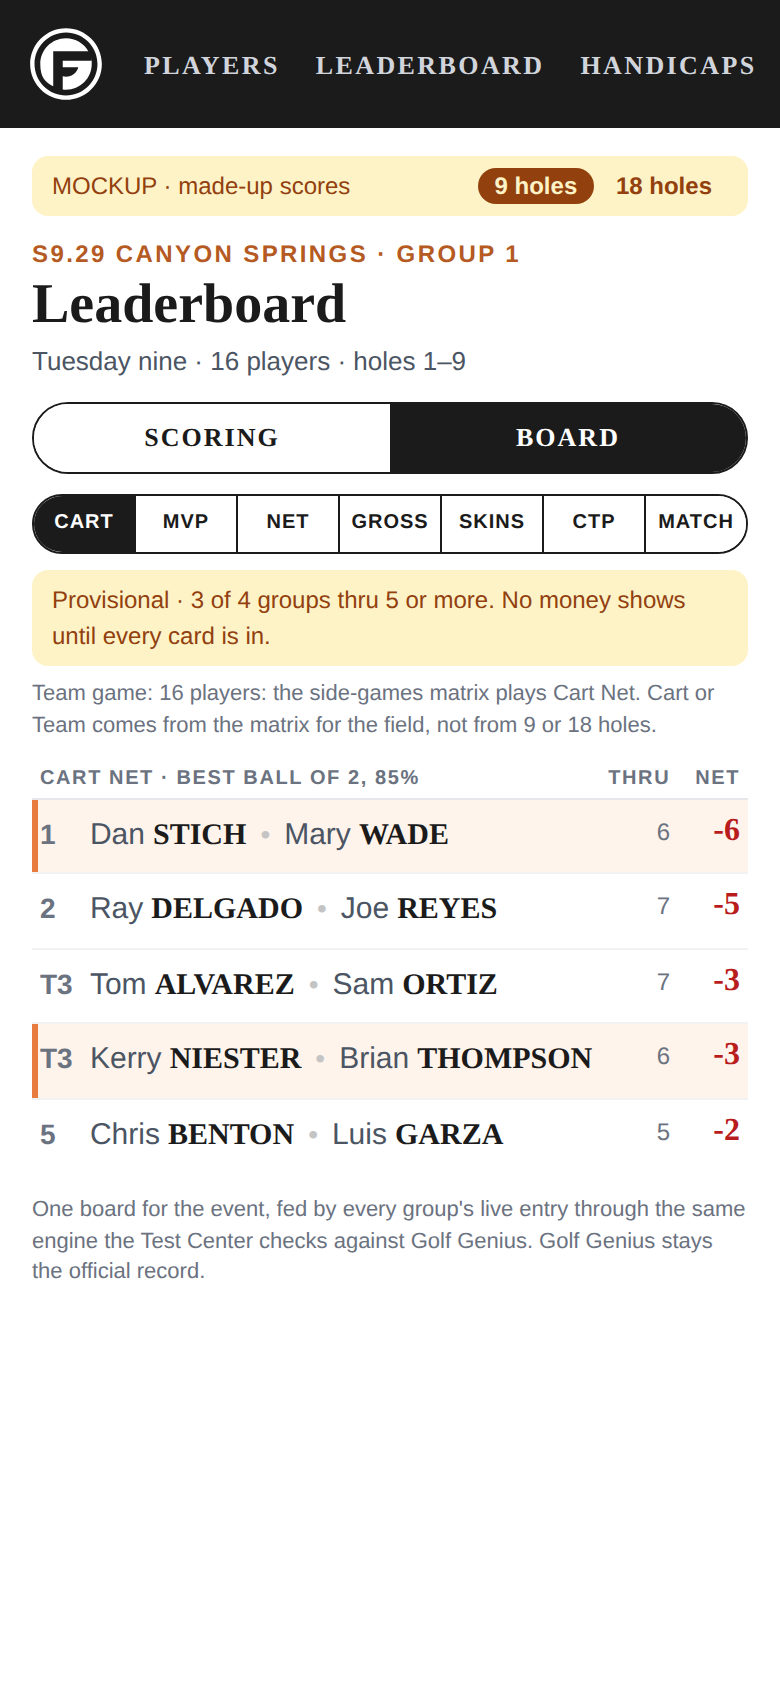
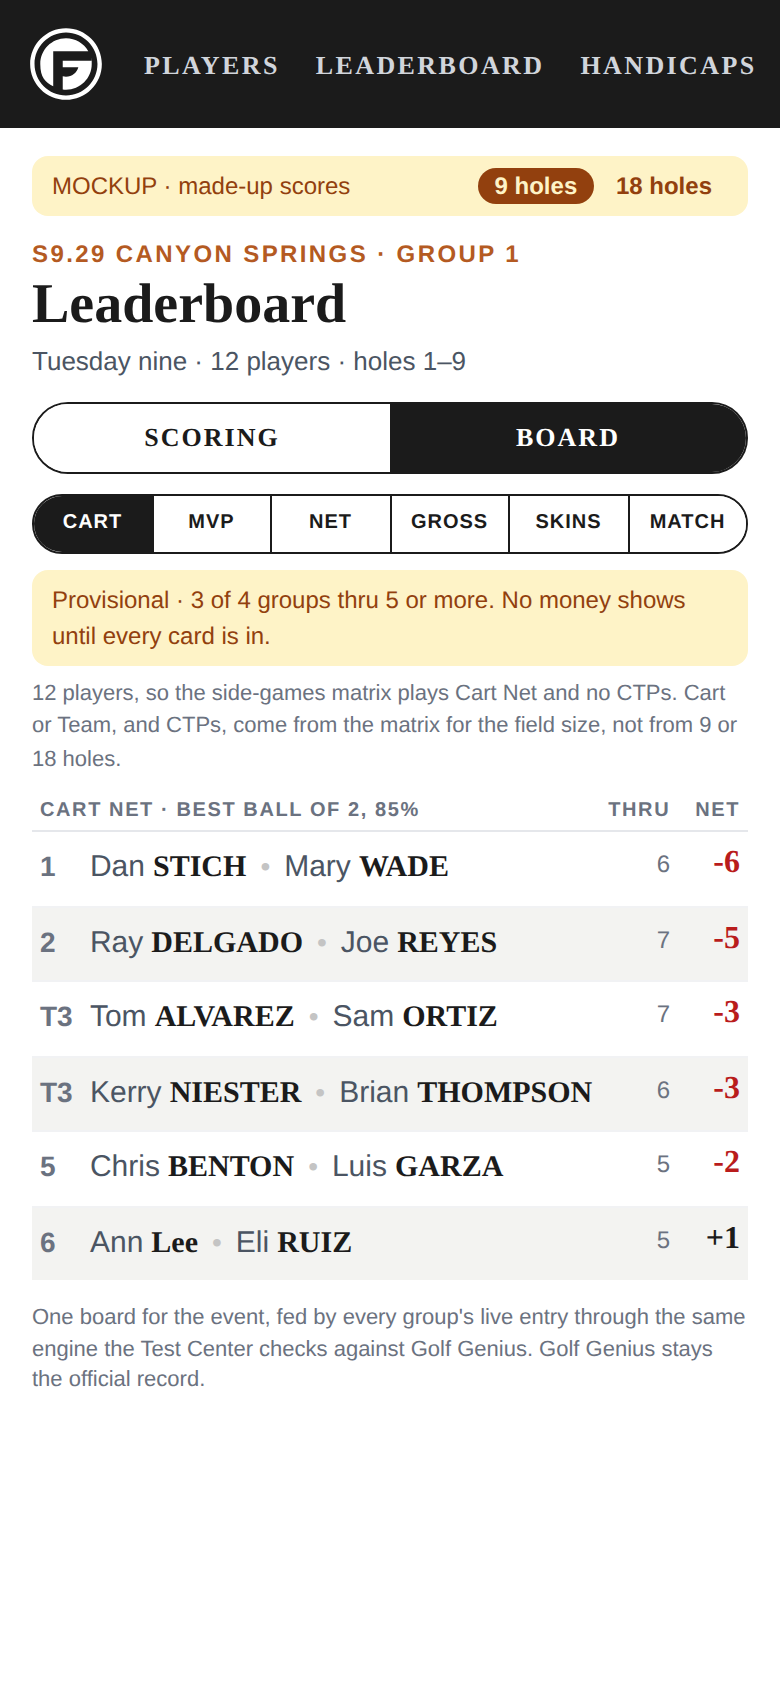
Leaderboard mockup: CTP/Match per matrix, EVENTS display rules
Claude-Session: https://claude.ai/code/session_01PeGTnLppc6bpJPrSmUWsVP

diff --git a/transaction-tracker/templates/leaderboard_mockup.html b/transaction-tracker/templates/leaderboard_mockup.html
@@ -16,7 +16,7 @@
         fonts and tokens. MADE-UP SCORES: nothing here reads the database.
         Rulings folded in: games are one standard toggle; the team game first
         (Cart Net OR Team Net, never both), then MVP, Net, Gross, Skins, CTP
-        (+ Match when a group has matches); team names one line per cart,
+        (CTP only when the matrix plays it, Match only when a group has matches); team names one line per cart,
         small first name + LAST NAME in Bitter, a bullet between partners. #}
     <style>
         body { background: #FFFFFF; }
@@ -45,8 +45,22 @@
         .lb td.tp { width: 42px; font: 700 16px Bitter, Georgia, serif; }
         .lb td.tp.u { color: #B91C1C; }
         .lb td.sm { width: 38px; color: #6B7280; font-size: 12px; }
-        .lb tr.me td { background: #FFF4EC; }
-        .lb tr.me td.pos { box-shadow: inset 3px 0 0 #E87C3E; }
+        /* The EVENTS leaderboard's rules (Kerry 2026-09-26: "Same highlighting
+           and display rules as the LEADERBOARD / EVENTS page"): a light grey
+           wash on every other row; on NET and GROSS a green row = bought into
+           that game, light grey = did not; no win tints while the field is
+           incomplete (the money hold). */
+        .lb tr.alt td { background: #F3F3F1; }
+        .lb tr.bought td { background: var(--buyin-green, #bbf7d0); }
+        .lb tr.nobuy td { background: var(--buyin-grey, #FAFAFA); color: #9CA3AF; }
+        .lb tr.nobuy .nm em, .lb tr.nobuy .nm b { color: #9CA3AF; }
+        .lb td.who .whoin { display: flex; align-items: center; gap: 6px; }
+        .lb td.who .whoin .tee { margin: 0 0 0 auto; flex: none; }
+        .legend { font-size: 11px; color: #6B7280; margin: 8px 0 0; }
+        .legend .lg { display: inline-block; padding: 1px 7px; border-radius: 4px; font-weight: 700; }
+        .legend .lg.g { background: var(--buyin-green, #bbf7d0); color: #166534; }
+        .legend .lg.n { background: #F3F3F1; color: #9CA3AF; }
+        .circ { display: inline-block; min-width: 17px; line-height: 17px; border: 1.5px solid #1B1B1B; border-radius: 50%; font-weight: 700; font-size: 11px; }
         .nm { display: inline-flex; align-items: baseline; gap: 4px; }
         /* Kerry 2026-09-26: first name the same size as the last. */
         .nm em { font-style: normal; font-size: 15px; color: #4B5563; }
@@ -54,13 +68,14 @@
         .cart { display: flex; align-items: baseline; gap: 7px; white-space: nowrap; }
         .cart .sep { color: #C4C4C4; }
         .meta { font-size: 11px; color: #6B7280; margin-top: 2px; }
-        .tee { display: inline-block; width: 9px; height: 9px; border-radius: 50%; margin-right: 6px; vertical-align: 1px; }
-        .tee.ring { background: #FFFFFF !important; box-shadow: inset 0 0 0 2px currentColor; }
+        .tee { display: inline-block; width: 10px; height: 10px; border-radius: 50%; }
+        .tee.ring { background: #FFFFFF !important; box-shadow: inset 0 0 0 1.5px currentColor; }
         .lbl { display: flex; justify-content: space-between; font: 700 11px 'Helvetica Neue', Helvetica, Arial, sans-serif;
                letter-spacing: 1px; color: #6B7280; text-transform: uppercase; margin: 14px 0 6px; }
         .skins { display: grid; gap: 3px; }
         .sk { border: 1px solid #E5E7EB; border-radius: 6px; text-align: center; padding: 3px 0; font-size: 10px; color: #6B7280; background: #F8F8F8; }
         .sk b { display: block; font: 700 12px Bitter, Georgia, serif; color: #1B1B1B; }
+        .sk .circ { margin-top: 2px; background: #FFFFFF; color: #1B1B1B; }
         .sk.won { background: #d1f4e0; border-color: #d1f4e0; } .sk.won b { color: #0d7556; }
         .sk.carry { background: #FFFFFF; border-style: dashed; }
         .mcard { border: 1px solid #E5E7EB; border-radius: 10px; overflow: hidden; margin-bottom: 6px; }
@@ -94,7 +109,8 @@
         "use strict";
         const A = "#2F5D74", B = "#C1673F";
         const TEE = {Blue: "#1D4ED8", White: "#1B1B1B", Gold: "#B8860B", Red: "#B91C1C"};
-        const RING = {White: 1, Red: 1};
+        const RING = {White: 1, Red: 1};  // white: black outline, white centre; the women's tee: an outline
+        const INK = {White: "#1B1B1B"};
         // Surname case follows the Tracker's rule (events.md "Surname Uppercase
         // for Elevated Roles"): MEMBER / MEMBER+ / MANAGER / OWNER in CAPS,
         // everyone else (guest, 1st timer, non-member) in proper case.
@@ -102,51 +118,67 @@
         const P = (f, l) => `<span class="nm"><em>${f}</em><b style="text-transform:${NONMEMBER.has(l) ? "none" : "uppercase"}">${l}</b></span>`;
         const cart = (pair) => `<div class="cart">${P(...pair[0])}<span class="sep">•</span>${P(...pair[1])}</div>`;
         const tp = (n) => n === 0 ? "E" : (n > 0 ? "+" + n : "" + n);
+        // Players: first, last, tee, group, gross, thru, net ±, gross ±, bought NET, bought GROSS.
+        // The team game, CTPs and matches follow the side-games matrix
+        // (side-games.md): CART Net at 4–15 players with no CTPs (the CTP money
+        // rides in the cart pot); TEAM Net at 16+ with CTPs (18 holes: 2, 3, 4
+        // CTPs at 16, 24, 32). Matches only when a group has one.
         const EV = {
           "9": {
-            name: "s9.29 Canyon Springs", group: 1, sub: "Tuesday nine · 16 players · holes 1–9", matrix: "16 players: the side-games matrix plays Cart Net",
+            name: "s9.29 Canyon Springs", group: 1, sub: "Tuesday nine · 12 players · holes 1–9", matrix: "12 players, so the side-games matrix plays Cart Net and no CTPs",
             team: {key: "CART", title: "Cart Net · best ball of 2, 85%", rows: [
-              {pos: 1, carts: [[["Dan", "Stich"], ["Mary", "Wade"]]], meta: "Group 1 · your group", thru: 6, net: -6, me: 1},
-              {pos: 2, carts: [[["Ray", "Delgado"], ["Joe", "Reyes"]]], meta: "Group 3", thru: 7, net: -5},
-              {pos: "T3", carts: [[["Tom", "Alvarez"], ["Sam", "Ortiz"]]], meta: "Group 2", thru: 7, net: -3},
-              {pos: "T3", carts: [[["Kerry", "Niester"], ["Brian", "Thompson"]]], meta: "Group 1 · your group", thru: 6, net: -3, me: 1},
-              {pos: 5, carts: [[["Chris", "Benton"], ["Luis", "Garza"]]], meta: "Group 4", thru: 5, net: -2}]},
+              {pos: 1, carts: [[["Dan", "Stich"], ["Mary", "Wade"]]], thru: 6, net: -6},
+              {pos: 2, carts: [[["Ray", "Delgado"], ["Joe", "Reyes"]]], thru: 7, net: -5},
+              {pos: "T3", carts: [[["Tom", "Alvarez"], ["Sam", "Ortiz"]]], thru: 7, net: -3},
+              {pos: "T3", carts: [[["Kerry", "Niester"], ["Brian", "Thompson"]]], thru: 6, net: -3},
+              {pos: 5, carts: [[["Chris", "Benton"], ["Luis", "Garza"]]], thru: 5, net: -2},
+              {pos: 6, carts: [[["Ann", "Lee"], ["Eli", "Ruiz"]]], thru: 5, net: 1}]},
             players: [
-              ["Dan", "Stich", "Gold", 1, 27, 6, -3], ["Ray", "Delgado", "White", 3, 31, 7, -2], ["Mary", "Wade", "Red", 1, 30, 6, -2],
-              ["Tom", "Alvarez", "Blue", 2, 28, 7, -1], ["Kerry", "Niester", "Blue", 1, 24, 6, 0], ["Chris", "Benton", "White", 4, 21, 5, 0],
-              ["Sam", "Ortiz", "Gold", 2, 33, 7, 1], ["Brian", "Thompson", "White", 1, 34, 6, 2]],
+              ["Dan", "Stich", "Gold", 1, 27, 6, -3, 5, 1, 0], ["Ray", "Delgado", "White", 3, 31, 7, -2, 3, 1, 1], ["Mary", "Wade", "Red", 1, 30, 6, -2, 7, 1, 0],
+              ["Tom", "Alvarez", "Blue", 2, 28, 7, -1, 1, 0, 1], ["Kerry", "Niester", "Blue", 1, 24, 6, 0, 0, 1, 1], ["Chris", "Benton", "White", 4, 21, 5, 0, 2, 1, 0],
+              ["Joe", "Reyes", "White", 3, 29, 7, 0, 3, 1, 0], ["Luis", "Garza", "Gold", 4, 26, 5, 1, 6, 0, 0],
+              ["Sam", "Ortiz", "Gold", 2, 33, 7, 1, 7, 1, 0], ["Ann", "Lee", "Red", 4, 29, 5, 1, 9, 0, 0], ["Brian", "Thompson", "White", 1, 34, 6, 2, 10, 1, 0],
+              ["Eli", "Ruiz", "White", 2, 38, 5, 3, 13, 0, 0]],
             skinsTitle: "½ Net (7 buyers)", skinsNote: "2 won · 1 carry",
-            skins: [{}, {w: "Stich"}, {c: 1}, {w: "Wade"}, {}, {}, {}, {}, {}], ctp: [["3", "Mary", "Wade", "8' 4\""], ["7", null]],
+            skins: [{}, {w: "Stich", s: 4}, {c: 1}, {w: "Wade", s: 3}, {}, {}, {}, {}, {}], ctp: [],
             matches: [
               {a: ["Kerry", "Niester"], b: ["Dan", "Stich"], lead: "b", txt: "1 UP", sub: "thru 6", h: [0, 1, 2, 0, 2, 0, null, null, null]},
               {a: ["Brian", "Thompson"], b: ["Mary", "Wade"], lead: null, txt: "AS", sub: "thru 6", h: [2, 1, 0, 1, 2, 0, null, null, null]}],
             note: "3 of 4 groups thru 5 or more"},
           "18": {
-            name: "s10.3 Brackenridge", group: 3, sub: "Saturday 18 · 24 players · shotgun", matrix: "24 players: the side-games matrix plays Team Net",
+            name: "s10.3 Brackenridge", group: 3, sub: "Saturday 18 · 24 players · shotgun", matrix: "24 players, so the side-games matrix plays Team Net and 3 CTPs",
             team: {key: "TEAM", title: "Team Net · best 2 of 4", rows: [
-              {pos: 1, carts: [[["Ray", "Delgado"], ["Luis", "Garza"]], [["Ann", "Lee"], ["Sam", "Park"]]], meta: "Group 5", thru: 12, net: -11},
-              {pos: 2, carts: [[["Kerry", "Niester"], ["Brian", "Thompson"]], [["Dan", "Stich"], ["Mary", "Wade"]]], meta: "Group 3 · your group", thru: 10, net: -9, me: 1},
-              {pos: 3, carts: [[["Tom", "Alvarez"], ["Joe", "Reyes"]], [["Min", "Cho"], ["Rosa", "Diaz"]]], meta: "Group 1", thru: 12, net: -7},
-              {pos: 4, carts: [[["Chris", "Benton"], ["Sam", "Ortiz"]], [["Eli", "Ruiz"], ["Pat", "Hale"]]], meta: "Group 4", thru: 9, net: -4}]},
+              {pos: 1, carts: [[["Ray", "Delgado"], ["Luis", "Garza"]], [["Ann", "Lee"], ["Sam", "Park"]]], thru: 12, net: -11},
+              {pos: 2, carts: [[["Kerry", "Niester"], ["Brian", "Thompson"]], [["Dan", "Stich"], ["Mary", "Wade"]]], thru: 10, net: -9},
+              {pos: 3, carts: [[["Tom", "Alvarez"], ["Joe", "Reyes"]], [["Min", "Cho"], ["Rosa", "Diaz"]]], thru: 12, net: -7},
+              {pos: 4, carts: [[["Chris", "Benton"], ["Sam", "Ortiz"]], [["Eli", "Ruiz"], ["Pat", "Hale"]]], thru: 9, net: -4}]},
             players: [
-              ["Ray", "Delgado", "White", 5, 44, 12, -4], ["Mary", "Wade", "Red", 3, 45, 10, -3], ["Kerry", "Niester", "Blue", 3, 37, 10, -2],
-              ["Tom", "Alvarez", "Blue", 1, 46, 12, -2], ["Dan", "Stich", "Gold", 3, 49, 10, -1], ["Sam", "Ortiz", "Gold", 6, 38, 8, 0],
-              ["Chris", "Benton", "White", 4, 44, 9, 1], ["Brian", "Thompson", "White", 3, 58, 10, 3]],
+              ["Ray", "Delgado", "White", 5, 44, 12, -4, 8, 1, 1], ["Mary", "Wade", "Red", 3, 45, 10, -3, 7, 1, 0], ["Kerry", "Niester", "Blue", 3, 37, 10, -2, -1, 1, 1],
+              ["Tom", "Alvarez", "Blue", 1, 46, 12, -2, 2, 0, 1], ["Dan", "Stich", "Gold", 3, 49, 10, -1, 11, 1, 0], ["Sam", "Ortiz", "Gold", 6, 38, 8, 0, 6, 1, 0],
+              ["Chris", "Benton", "White", 4, 44, 9, 1, 8, 0, 0], ["Brian", "Thompson", "White", 3, 58, 10, 3, 18, 1, 0]],
             skinsTitle: "Net (14 buyers)", skinsNote: "3 won · 2 carries",
-            skins: [{w: "Delgado"}, {c: 1}, {c: 1}, {w: "Wade"}, {}, {w: "Stich"}, {}, {}, {}, {}, {}, {}, {}, {}, {}, {}, {}, {}],
-            ctp: [["4", "Ray", "Delgado", "11' 2\""], ["8", "Kerry", "Niester", "5' 9\""], ["12", null], ["16", null]],
+            skins: [{w: "Delgado", s: 3}, {c: 1}, {c: 1}, {w: "Wade", s: 4}, {}, {w: "Stich", s: 4}, {}, {}, {}, {}, {}, {}, {}, {}, {}, {}, {}, {}],
+            ctp: [["4", "Ray", "Delgado", "11' 2\""], ["8", "Kerry", "Niester", "5' 9\""], ["12", null]],
             matches: [], note: "all 6 groups on course, 2 thru 12"}
         };
         const q = new URLSearchParams(location.search);
         let holes = q.get("holes") === "18" ? "18" : "9";
         let game = null;
         const app = document.getElementById("lb");
-        function games(ev) { return [ev.team.key, "MVP", "NET", "GROSS", "SKINS", "CTP"].concat(ev.matches.length ? ["MATCH"] : []); }
+        // Always: the team game, MVP, NET, GROSS, SKINS (Kerry: "The rest should
+        // still show", e.g. Individual Gross). CTP only when the matrix plays it;
+        // MATCH only when a group has a match.
+        function games(ev) { return [ev.team.key, "MVP", "NET", "GROSS", "SKINS"].concat(ev.ctp.length ? ["CTP"] : [], ev.matches.length ? ["MATCH"] : []); }
+        const who = (f, l, tee) => `<div class="whoin">${P(f, l)}${tee ? `<span class="tee ${RING[tee] ? "ring" : ""}" style="background:${TEE[tee]};color:${INK[tee] || TEE[tee]}" title="${tee} Tees"></span>` : ""}</div>`;
+        // NET and GROSS order by the ± column while the event is going (the
+        // EVENTS rule), and wash each row green (bought into that game) or grey.
         function playerRows(ev, col) {
-            const rows = ev.players.slice().sort((x, y) => (col === "gross" ? x[4] - y[4] : x[6] - y[6]));
-            return rows.map((r, i) => `<tr class="${r[3] === ev.group ? "me" : ""}"><td class="pos">${i + 1}</td>
-                <td class="who"><span class="tee ${RING[r[2]] ? "ring" : ""}" style="background:${TEE[r[2]]};color:${TEE[r[2]]}"></span>${P(r[0], r[1])}</td>
-                <td class="sm">${r[5]}</td><td class="tp ${(col === "gross" ? 0 : r[6]) < 0 ? "u" : ""}">${col === "gross" ? r[4] : tp(r[6])}</td></tr>`).join("");
+            const k = col === "gross" ? 7 : 6, buy = col === "gross" ? 9 : 8;
+            const rows = ev.players.slice().sort((x, y) => x[k] - y[k]);
+            const pos = (i) => { const f = rows.findIndex((x) => x[k] === rows[i][k]); return (rows.filter((x) => x[k] === rows[i][k]).length > 1 ? "T" : "") + (f + 1); };
+            return rows.map((r, i) => `<tr class="${r[buy] ? "bought" : "nobuy"}"><td class="pos">${pos(i)}</td>
+                <td class="who">${who(r[0], r[1], r[2])}</td>
+                <td class="sm">${r[5]}</td><td class="tp ${r[k] < 0 && r[buy] ? "u" : ""}">${tp(r[k])}</td></tr>`).join("");
         }
         function mcard(m) {
             const bar = m.lead == null ? "t" : m.lead, bg = bar === "a" ? A : bar === "b" ? B : "";
@@ -157,18 +189,19 @@
                 <span class="mn r"><em>${m.b[0]}</em><b>${m.b[1]}</b></span><span class="mono" style="background:${B}">${m.b[0][0]}${m.b[1][0]}</span></div>
                 <div class="dots">${dots}</div></div>`;
         }
+        const legend = (g) => `<div class="legend"><span class="lg g">Bought ${g}</span> <span class="lg n">Did not</span> · ordered by ± while the event is going</div>`;
         function body(ev, g) {
-            if (g === ev.team.key) return `<table><tr><th class="l" colspan="2">${ev.team.title}</th><th>Thru</th><th>Net</th></tr>${ev.team.rows.map((r) =>
-                `<tr class="${r.me ? "me" : ""}"><td class="pos">${r.pos}</td><td class="who">${r.carts.map(cart).join("")}</td>
+            if (g === ev.team.key) return `<table><tr><th class="l" colspan="2">${ev.team.title}</th><th>Thru</th><th>Net</th></tr>${ev.team.rows.map((r, i) =>
+                `<tr class="${i % 2 ? "alt" : ""}"><td class="pos">${r.pos}</td><td class="who">${r.carts.map(cart).join("")}</td>
                  <td class="sm">${r.thru}</td><td class="tp ${r.net < 0 ? "u" : ""}">${tp(r.net)}</td></tr>`).join("")}</table>`;
-            if (g === "NET") return `<table><tr><th class="l" colspan="2">Individual Net</th><th>Thru</th><th>Net</th></tr>${playerRows(ev, "net")}</table>`;
-            if (g === "GROSS") return `<table><tr><th class="l" colspan="2">Individual Gross</th><th>Thru</th><th>Gross</th></tr>${playerRows(ev, "gross")}</table>`;
+            if (g === "NET") return `<table><tr><th class="l" colspan="2">Individual Net</th><th>Thru</th><th>Net</th></tr>${playerRows(ev, "net")}</table>${legend("Net")}`;
+            if (g === "GROSS") return `<table><tr><th class="l" colspan="2">Individual Gross</th><th>Thru</th><th>Gross</th></tr>${playerRows(ev, "gross")}</table>${legend("Gross")}`;
             if (g === "MVP") return `<table><tr><th class="l" colspan="2">MVP · points today</th><th>Thru</th><th>Pts</th></tr>${ev.players.slice().sort((x, y) => x[6] - y[6]).map((r, i) =>
-                `<tr class="${r[3] === ev.group ? "me" : ""}"><td class="pos">${i + 1}</td><td class="who">${P(r[0], r[1])}</td><td class="sm">${r[5]}</td><td class="tp">${Math.max(0, 12 - 2 * i)}</td></tr>`).join("")}</table>`;
+                `<tr class="${i % 2 ? "alt" : ""}"><td class="pos">${i + 1}</td><td class="who">${who(r[0], r[1], r[2])}</td><td class="sm">${r[5]}</td><td class="tp">${Math.max(0, 12 - 2 * i)}</td></tr>`).join("")}</table>`;
             if (g === "SKINS") return `<div class="lbl"><span>Skins · ${ev.skinsTitle}</span><span>${ev.skinsNote}</span></div>
-                <div class="skins" style="grid-template-columns:repeat(9,1fr)">${ev.skins.map((s, i) => `<div class="sk ${s.w ? "won" : s.c ? "carry" : ""}">${i + 1}<b>${s.w || (s.c ? "c/o" : "–")}</b></div>`).join("")}</div>`;
+                <div class="skins" style="grid-template-columns:repeat(9,1fr)">${ev.skins.map((s, i) => `<div class="sk ${s.w ? "won" : s.c ? "carry" : ""}">${i + 1}<b>${s.w || (s.c ? "c/o" : "–")}</b>${s.w ? `<span class="circ">${s.s}</span>` : ""}</div>`).join("")}</div>`;
             if (g === "CTP") return `<table><tr><th class="l" colspan="2">Closest to the pin</th><th></th><th>Distance</th></tr>${ev.ctp.map((c) =>
-                `<tr><td class="pos">#${c[0]}</td><td class="who">${c[1] ? P(c[1], c[2]) : '<span class="meta">not played yet</span>'}</td><td></td><td class="sm" style="width:60px">${c[3] || ""}</td></tr>`).join("")}</table>`;
+                `<tr><td class="pos">#${c[0]}</td><td class="who">${c[1] ? who(c[1], c[2], (ev.players.find((r) => r[1] === c[2]) || [])[2]) : '<span class="meta">not played yet</span>'}</td><td></td><td class="sm" style="width:60px">${c[3] || ""}</td></tr>`).join("")}</table>`;
             if (g === "MATCH") return `<div class="lbl"><span>Matches</span><span>tap one for its card</span></div>${ev.matches.map(mcard).join("")}`;
             return "";
         }
@@ -184,7 +217,7 @@
                 <div class="seg"><button type="button">SCORING</button><button type="button" class="on">BOARD</button></div>
                 <div class="seg games">${gs.map((x) => `<button type="button" class="${x === game ? "on" : ""}" data-g="${x}">${x}</button>`).join("")}</div>
                 <div class="prov">Provisional · ${ev.note}. No money shows until every card is in.</div>
-                <div class="meta" style="margin:-2px 0 8px">Team game: ${ev.matrix}. Cart or Team comes from the matrix for the field, not from 9 or 18 holes.</div>
+                <div class="meta" style="margin:-2px 0 8px">${ev.matrix}. Cart or Team, and CTPs, come from the matrix for the field size, not from 9 or 18 holes.</div>
                 ${body(ev, game)}
                 <div class="note">One board for the event, fed by every group's live entry through the same engine the Test Center checks against Golf Genius. Golf Genius stays the official record.</div>`;
         }

diff --git a/transaction-tracker/static/js/version.js b/transaction-tracker/static/js/version.js
@@ -1,5 +1,15 @@
-window.TGF_VERSION = "2.502.3";
+window.TGF_VERSION = "2.502.4";
 window.TGF_CHANGELOG = [
+  {
+    version: "2.502.4",
+    date: "2026-09-26",
+    title: "Leaderboard mockup: games follow the matrix, EVENTS display rules",
+    changes: [
+      "Kerry, 2026-09-26: 'Not always matches so if no matches then don't show that toggle. CTP only show if the game is played per side game matrix. The rest should still show ... Same highlighting and display rules as the LEADERBOARD / EVENTS page.' The team game, MVP, Net, Gross and Skins always show. CTP shows only when the matrix plays it (Team Net at 16+ players), and Match only when a group has one.",
+      "The 9-hole mock is now 12 players (Cart Net, no CTPs). Before, it claimed 16 players on Cart Net, which the matrix does not do.",
+      "Rows follow the EVENTS board. On Net and Gross a row is green if the player bought into that game and grey if not, and rows are ordered by the ± column (ties show T) while the event is going. The team and MVP tabs use the grey wash on every other row. The tee circle sits right-justified in the name cell. Live skins show the winning score circled. There is no 'your group' tint (EVENTS has none) and no win tints while money is held."
+    ]
+  },
   {
     version: "2.502.3",
     date: "2026-09-26",
